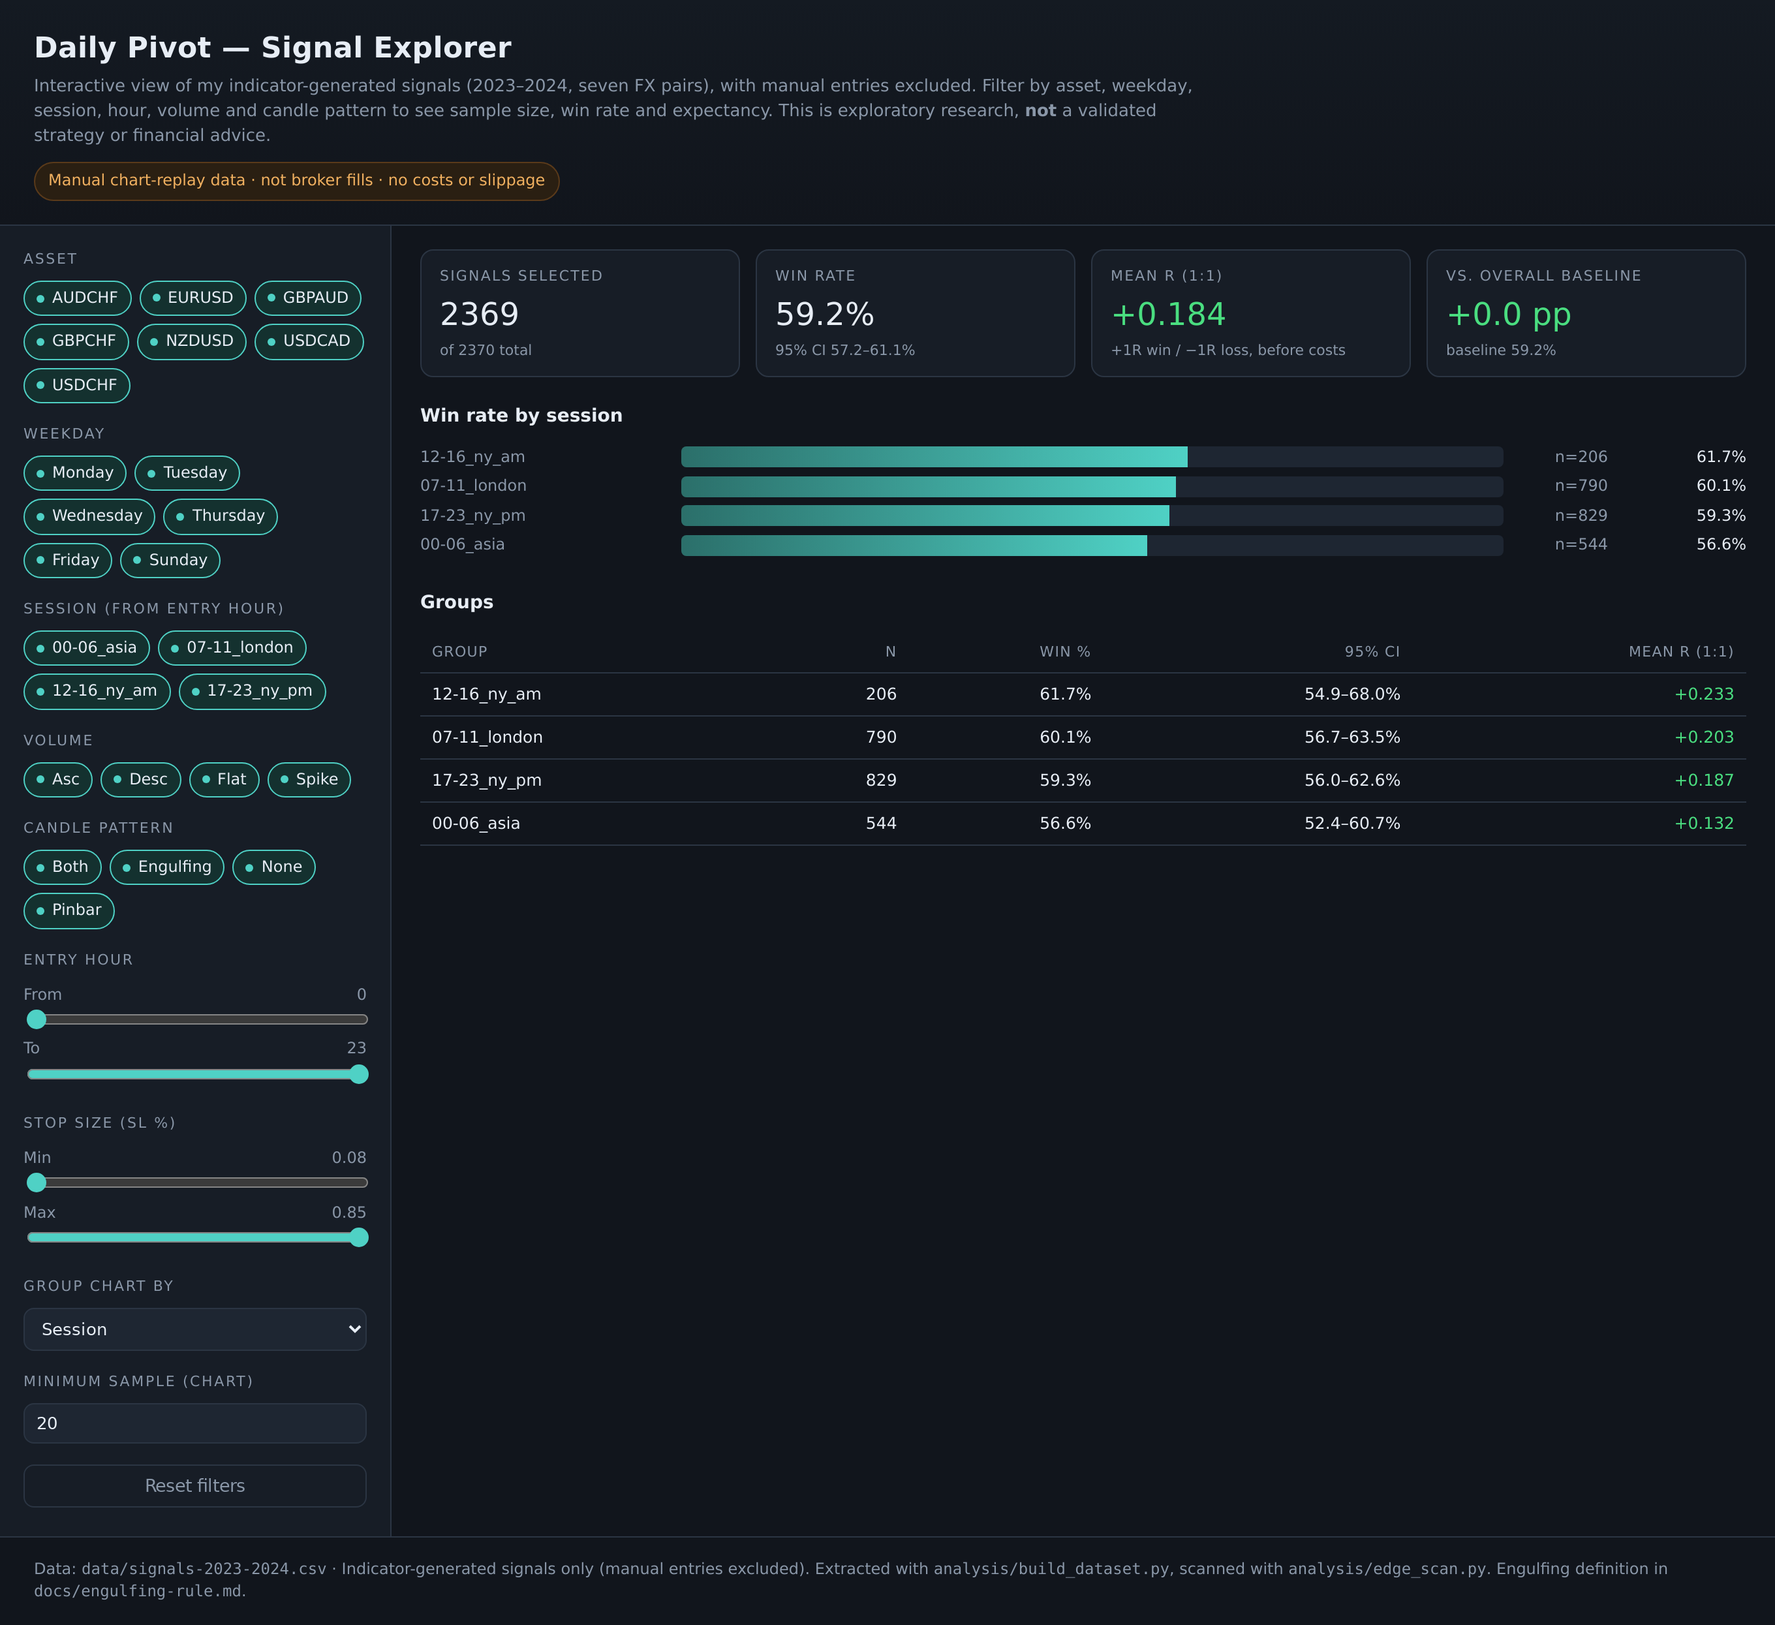
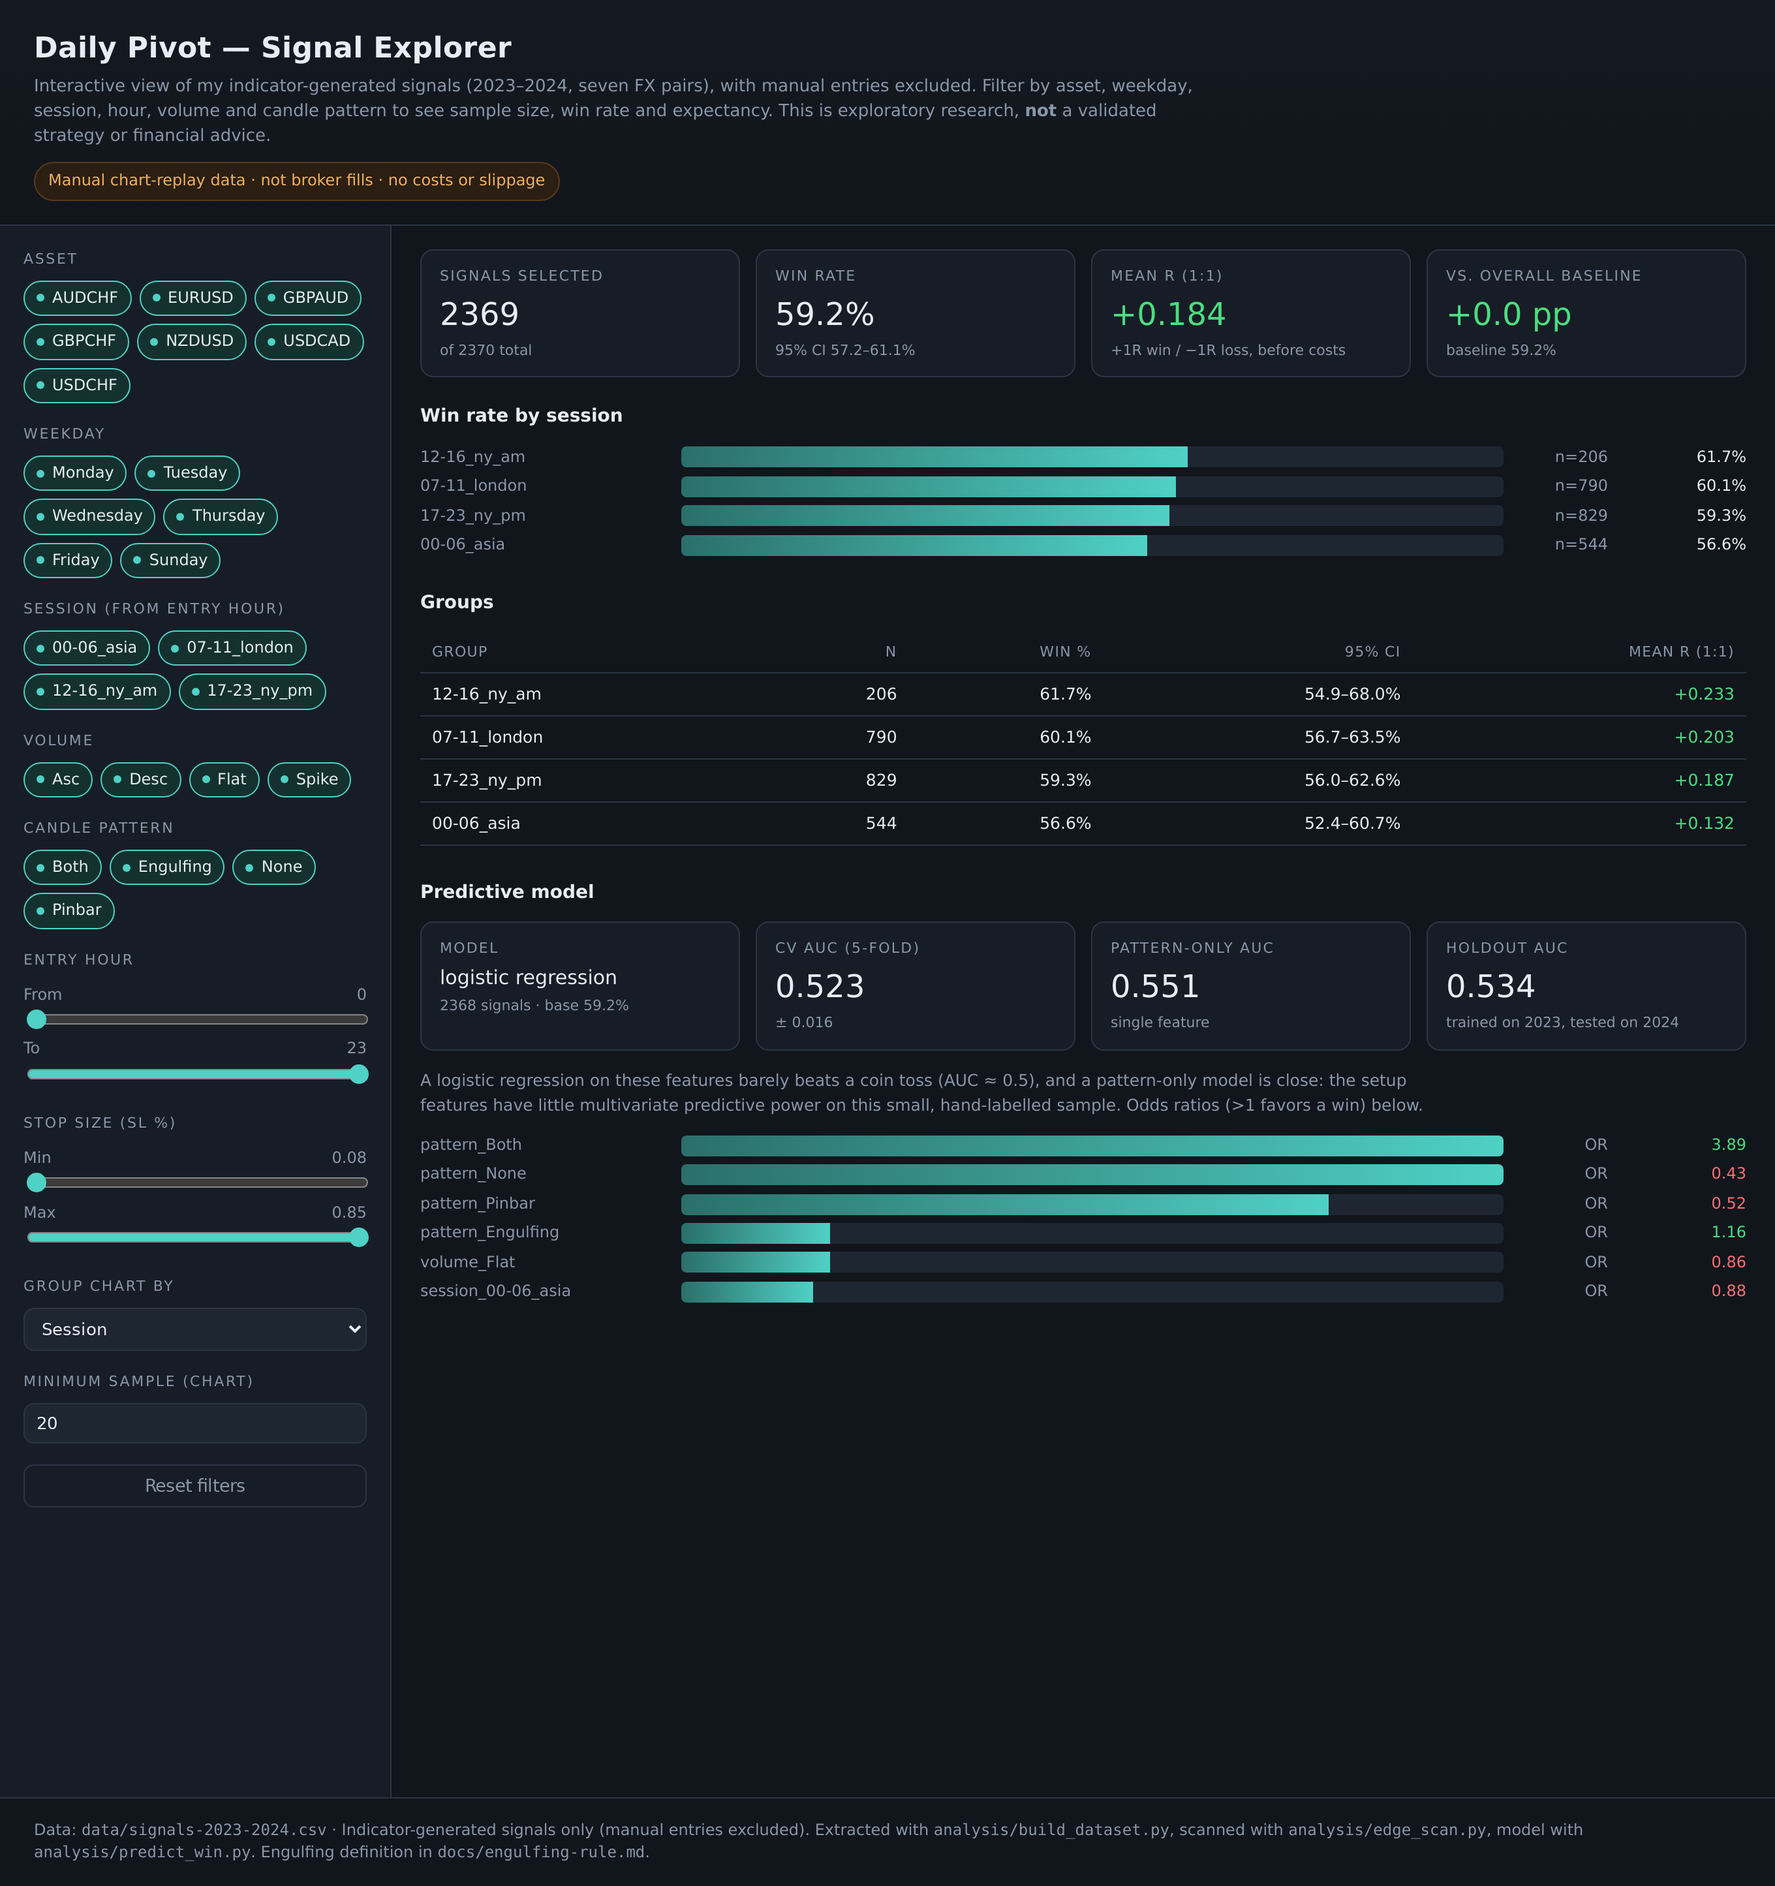
Add exploratory logistic regression model and dashboard panel

diff --git a/dashboard/index.html b/dashboard/index.html
@@ -167,13 +167,18 @@
       <h2>Groups</h2>
       <div id="table-wrap"></div>
     </section>
+    <section>
+      <h2>Predictive model</h2>
+      <div id="model"></div>
+    </section>
   </main>
 </div>
 
 <footer>
   Data: <code>data/signals-2023-2024.csv</code> · Indicator-generated signals only (manual entries
   excluded). Extracted with <code>analysis/build_dataset.py</code>, scanned with
-  <code>analysis/edge_scan.py</code>. Engulfing definition in <code>docs/engulfing-rule.md</code>.
+  <code>analysis/edge_scan.py</code>, model with <code>analysis/predict_win.py</code>. Engulfing
+  definition in <code>docs/engulfing-rule.md</code>.
 </footer>
 
 <script>
@@ -337,6 +342,39 @@ function render() {
   renderTable(groups);
 }
 
+function renderModel(m) {
+  const feats = m.top_features.slice(0, 6).map((f) => {
+    const cls = f.odds_ratio >= 1 ? "pos" : "neg";
+    const width = Math.min(100, Math.abs(Math.log(f.odds_ratio)) * 120);
+    return `<div class="chartrow"><div class="name">${f.feature}</div>
+      <div class="bar"><div class="fill" style="width:${width}%"></div></div>
+      <div class="n">OR</div><div class="val ${cls}">${f.odds_ratio.toFixed(2)}</div></div>`;
+  }).join("");
+  document.getElementById("model").innerHTML = `
+    <div class="cards" style="margin-bottom:14px">
+      <div class="card"><div class="label">Model</div><div class="value" style="font-size:15px">${m.model}</div><div class="hint">${m.n} signals · base ${(m.base_rate * 100).toFixed(1)}%</div></div>
+      <div class="card"><div class="label">CV AUC (5-fold)</div><div class="value">${m.cv_auc_mean.toFixed(3)}</div><div class="hint">± ${m.cv_auc_std.toFixed(3)}</div></div>
+      <div class="card"><div class="label">Pattern-only AUC</div><div class="value">${m.pattern_only_cv_auc_mean.toFixed(3)}</div><div class="hint">single feature</div></div>
+      <div class="card"><div class="label">Holdout AUC</div><div class="value">${m.holdout_auc.toFixed(3)}</div><div class="hint">${m.holdout}</div></div>
+    </div>
+    <p class="muted" style="font-size:12.5px;max-width:780px;line-height:1.5">
+      A logistic regression on these features barely beats a coin toss (AUC ≈ 0.5), and a
+      pattern-only model is close: the setup features have little multivariate predictive
+      power on this small, hand-labelled sample. Odds ratios (&gt;1 favors a win) below.
+    </p>
+    ${feats}`;
+}
+
+async function loadModel() {
+  try {
+    const metrics = await fetch("../data/model_metrics.json").then((r) => r.json());
+    renderModel(metrics);
+  } catch (err) {
+    document.getElementById("model").innerHTML =
+      '<div class="empty">Model metrics unavailable.</div>';
+  }
+}
+
 function reset() {
   ["f-asset", "f-weekday", "f-session", "f-volume", "f-pattern"].forEach((id) => {
     document.querySelectorAll("#" + id + " .chip").forEach((c) => c.classList.add("on"));
@@ -406,6 +444,7 @@ async function init() {
   document.getElementById("reset").addEventListener("click", reset);
 
   render();
+  loadModel();
 }
 
 init().catch((err) => {

diff --git a/analysis/predict_win.py b/analysis/predict_win.py
@@ -1,0 +1,177 @@
+"""Fit a small, honest predictive model on the published signal sample.
+
+A logistic regression that estimates P(win) from the setup features, evaluated
+with stratified 5-fold cross-validation and a chronological holdout (train 2023,
+test 2024). This is illustrative: the sample is small, hand-labelled and
+non-random, so read the metrics as exploratory, not as a trading edge.
+
+    python analysis/predict_win.py
+
+Outputs: data/model_metrics.json and analysis/model_report.md
+"""
+
+from __future__ import annotations
+
+import json
+from datetime import date
+from pathlib import Path
+
+import numpy as np
+import pandas as pd
+from sklearn.compose import ColumnTransformer
+from sklearn.linear_model import LogisticRegression
+from sklearn.metrics import accuracy_score, roc_auc_score
+from sklearn.model_selection import StratifiedKFold, cross_val_score
+from sklearn.pipeline import Pipeline
+from sklearn.preprocessing import OneHotEncoder, StandardScaler
+
+HERE = Path(__file__).resolve().parent
+DATA = HERE.parents[0] / "data" / "signals-2023-2024.csv"
+OUT_JSON = HERE.parents[0] / "data" / "model_metrics.json"
+OUT_REPORT = HERE / "model_report.md"
+
+CATEGORICAL = ["asset", "weekday", "session", "volume", "pattern"]
+NUMERIC = ["sl_pct"]
+FEATURES = CATEGORICAL + NUMERIC
+
+
+def session_of(hour: int) -> str:
+    if 0 <= hour <= 6:
+        return "00-06_asia"
+    if 7 <= hour <= 11:
+        return "07-11_london"
+    if 12 <= hour <= 16:
+        return "12-16_ny_am"
+    return "17-23_ny_pm"
+
+
+def load() -> pd.DataFrame:
+    frame = pd.read_csv(DATA, keep_default_na=False)
+    frame["sl_pct"] = pd.to_numeric(frame["sl_pct"], errors="coerce")
+    frame["hour"] = frame["hour"].astype(int)
+    frame["session"] = frame["hour"].map(session_of)
+    frame["year"] = frame["date"].str.slice(0, 4)
+    frame = frame[(frame["weekday"].str.strip() != "") & frame["sl_pct"].notna()]
+    frame["win"] = (frame["result"] == "W").astype(int)
+    return frame
+
+
+def make_pipeline() -> Pipeline:
+    pre = ColumnTransformer(
+        [
+            ("cat", OneHotEncoder(handle_unknown="ignore"), CATEGORICAL),
+            ("num", StandardScaler(), NUMERIC),
+        ]
+    )
+    return Pipeline([("pre", pre), ("clf", LogisticRegression(max_iter=1000))])
+
+
+def main() -> None:
+    frame = load()
+    X, y = frame[FEATURES], frame["win"]
+    base_rate = float(y.mean())
+    baseline_accuracy = max(base_rate, 1 - base_rate)
+
+    cv = StratifiedKFold(n_splits=5, shuffle=True, random_state=0)
+    auc_scores = cross_val_score(make_pipeline(), X, y, cv=cv, scoring="roc_auc")
+    acc_scores = cross_val_score(make_pipeline(), X, y, cv=cv, scoring="accuracy")
+
+    pattern_only = Pipeline(
+        [
+            ("enc", OneHotEncoder(handle_unknown="ignore")),
+            ("clf", LogisticRegression(max_iter=1000)),
+        ]
+    )
+    pattern_auc = cross_val_score(pattern_only, frame[["pattern"]], y, cv=cv, scoring="roc_auc")
+
+    train = frame[frame["year"] == "2023"]
+    test = frame[frame["year"] == "2024"]
+    holdout = make_pipeline().fit(train[FEATURES], train["win"])
+    proba = holdout.predict_proba(test[FEATURES])[:, 1]
+    holdout_auc = float(roc_auc_score(test["win"], proba))
+    holdout_accuracy = float(accuracy_score(test["win"], (proba >= 0.5).astype(int)))
+    holdout_baseline = float(max(test["win"].mean(), 1 - test["win"].mean()))
+
+    full = make_pipeline().fit(X, y)
+    encoder = full.named_steps["pre"].named_transformers_["cat"]
+    names = encoder.get_feature_names_out(CATEGORICAL).tolist() + NUMERIC
+    coefs = full.named_steps["clf"].coef_[0]
+    odds = np.exp(coefs)
+    order = np.argsort(-np.abs(coefs))
+    top = [
+        {
+            "feature": names[i],
+            "odds_ratio": round(float(odds[i]), 3),
+            "coef": round(float(coefs[i]), 3),
+        }
+        for i in order[:8]
+    ]
+
+    metrics = {
+        "generated_at": date.today().isoformat(),
+        "model": "logistic regression",
+        "n": int(len(frame)),
+        "base_rate": round(base_rate, 4),
+        "baseline_accuracy": round(baseline_accuracy, 4),
+        "cv_folds": 5,
+        "cv_auc_mean": round(float(auc_scores.mean()), 4),
+        "cv_auc_std": round(float(auc_scores.std()), 4),
+        "cv_accuracy_mean": round(float(acc_scores.mean()), 4),
+        "pattern_only_cv_auc_mean": round(float(pattern_auc.mean()), 4),
+        "holdout": "trained on 2023, tested on 2024",
+        "holdout_auc": round(holdout_auc, 4),
+        "holdout_accuracy": round(holdout_accuracy, 4),
+        "holdout_baseline_accuracy": round(holdout_baseline, 4),
+        "features": FEATURES,
+        "top_features": top,
+    }
+    OUT_JSON.write_text(json.dumps(metrics, indent=2) + "\n", encoding="utf-8")
+
+    lines = [
+        "# Predictive model — exploratory logistic regression",
+        "",
+        "I fit a logistic regression that estimates the probability that a signal is",
+        "a winner from the setup features. It is **illustrative**: the sample is small,",
+        "hand-labelled and non-random, so the metrics are exploratory, not a trading edge.",
+        "",
+        f"- Records: {metrics['n']} (2023–2024, indicator signals only)",
+        f"- Base win rate: {metrics['base_rate'] * 100:.2f}%",
+        f"- Baseline accuracy (majority class): {metrics['baseline_accuracy'] * 100:.2f}%",
+        f"- 5-fold CV AUC: {metrics['cv_auc_mean']:.3f} (± {metrics['cv_auc_std']:.3f})",
+        f"- 5-fold CV accuracy: {metrics['cv_accuracy_mean'] * 100:.2f}%",
+        f"- For comparison, a model using only the candle pattern: "
+        f"CV AUC {metrics['pattern_only_cv_auc_mean']:.3f}",
+        f"- Chronological holdout ({metrics['holdout']}): "
+        f"AUC {metrics['holdout_auc']:.3f}, accuracy {metrics['holdout_accuracy'] * 100:.2f}% "
+        f"(baseline {metrics['holdout_baseline_accuracy'] * 100:.2f}%)",
+        "",
+        "## Largest coefficients (odds ratios)",
+        "",
+        "| Feature | Odds ratio |",
+        "| --- | ---: |",
+    ]
+    for item in top:
+        lines.append(f"| {item['feature']} | {item['odds_ratio']:.3f} |")
+    lines += [
+        "",
+        "## Caveats",
+        "",
+        "- Manual chart-replay labels, not broker fills; no costs or slippage.",
+        "- Small, non-random sample; hand-recorded features.",
+        "- The candle pattern is the strongest driver; its tags are subjective and the",
+        "  deterministic rule is a proposal (`docs/engulfing-rule.md`).",
+        "- Adding every feature barely beats the majority-class baseline, and a pattern-only",
+        "  model is close: the setup features have little multivariate predictive power on",
+        "  this sample. Reported as-is.",
+        "- AUC near 0.5 would mean the model adds little over a coin toss; that is the",
+        "  honest result here.",
+        "",
+    ]
+    OUT_REPORT.write_text("\n".join(lines), encoding="utf-8")
+    print(f"wrote {OUT_JSON}")
+    print(f"wrote {OUT_REPORT}")
+    print(f"CV AUC {metrics['cv_auc_mean']:.3f} | holdout AUC {metrics['holdout_auc']:.3f}")
+
+
+if __name__ == "__main__":
+    main()

diff --git a/analysis/README.md b/analysis/README.md
@@ -1,9 +1,10 @@
 # Analysis
 
-Two small scripts reproduce the clean dataset and the exploratory scan behind the
-dashboard. The statistical workflow here (pandas, inference, hypothesis tests,
-FDR) is the one I've been learning in the Tecnicatura en Gestión y Análisis de
-Datos (FCE, UBA); see the repository README for the course context.
+Three small scripts reproduce the clean dataset, the exploratory scan and the
+predictive model behind the dashboard. The statistical workflow here (pandas,
+inference, hypothesis tests, FDR, logistic regression) is the one I've been
+learning in the Tecnicatura en Gestión y Análisis de Datos (FCE, UBA); see the
+repository README for the course context.
 
 ## What each script does
 
@@ -14,15 +15,19 @@ Datos (FCE, UBA); see the repository README for the course context.
   flags.
 - `edge_scan.py` — runs on the public CSV and reports win-rate subgroups with
   false-positive control. It writes `public_edge_report.md`.
+- `predict_win.py` — fits a logistic regression for P(win), with cross-validation
+  and a chronological holdout. It writes `data/model_metrics.json` (used by the
+  dashboard) and `model_report.md`.
 
 ## Run
 
 ```bash
-python -m pip install pandas scipy statsmodels
+python -m pip install pandas scipy statsmodels scikit-learn
 
 # Point at the folder that holds the private workbooks:
 TRADING_SOURCE_DIR=/path/to/workbooks python analysis/build_dataset.py
 python analysis/edge_scan.py
+python analysis/predict_win.py
 ```
 
 The workbooks are not distributed with this repository.
@@ -43,6 +48,18 @@ For every subgroup cell the scan reports:
 
 Dimensions: `asset`, `weekday`, `session` (derived from the entry hour),
 `volume`, `pattern`, a stop-size quartile, plus a few pairs.
+
+## Predictive model
+
+`predict_win.py` fits a logistic regression for P(win) from one-hot encoded
+categorical features (asset, weekday, session, volume, pattern) plus the
+standardized stop size. It reports 5-fold stratified cross-validation AUC and
+accuracy, a chronological holdout (train 2023, test 2024), and the largest odds
+ratios. A single-feature (pattern-only) model is included for comparison.
+
+Result: the model barely beats a coin toss (CV AUC ≈ 0.52; pattern-only ≈ 0.55;
+holdout ≈ 0.53), so the features do not form a reliable predictor on this small,
+hand-labelled sample. I report it as-is instead of tuning it to look better.
 
 ## Important limitation
 

diff --git a/analysis/model_report.md b/analysis/model_report.md
@@ -1,0 +1,38 @@
+# Predictive model — exploratory logistic regression
+
+I fit a logistic regression that estimates the probability that a signal is
+a winner from the setup features. It is **illustrative**: the sample is small,
+hand-labelled and non-random, so the metrics are exploratory, not a trading edge.
+
+- Records: 2368 (2023–2024, indicator signals only)
+- Base win rate: 59.16%
+- Baseline accuracy (majority class): 59.16%
+- 5-fold CV AUC: 0.523 (± 0.016)
+- 5-fold CV accuracy: 58.11%
+- For comparison, a model using only the candle pattern: CV AUC 0.551
+- Chronological holdout (trained on 2023, tested on 2024): AUC 0.534, accuracy 58.20% (baseline 58.37%)
+
+## Largest coefficients (odds ratios)
+
+| Feature | Odds ratio |
+| --- | ---: |
+| pattern_Both | 3.891 |
+| pattern_None | 0.426 |
+| pattern_Pinbar | 0.519 |
+| pattern_Engulfing | 1.163 |
+| volume_Flat | 0.860 |
+| session_00-06_asia | 0.875 |
+| asset_USDCHF | 1.135 |
+| asset_EURUSD | 0.888 |
+
+## Caveats
+
+- Manual chart-replay labels, not broker fills; no costs or slippage.
+- Small, non-random sample; hand-recorded features.
+- The candle pattern is the strongest driver; its tags are subjective and the
+  deterministic rule is a proposal (`docs/engulfing-rule.md`).
+- Adding every feature barely beats the majority-class baseline, and a pattern-only
+  model is close: the setup features have little multivariate predictive power on
+  this sample. Reported as-is.
+- AUC near 0.5 would mean the model adds little over a coin toss; that is the
+  honest result here.

diff --git a/README.md b/README.md
@@ -138,6 +138,23 @@ My own read after watching the indicator over these years:
 
 These are my observations from replay, not measured conclusions.
 
+## Predictive model
+
+I also fit a logistic regression that estimates P(win) from the setup features
+(asset, weekday, session, volume, candle pattern, stop size), with 5-fold
+cross-validation and a chronological holdout (train on 2023, test on 2024):
+
+- 5-fold CV AUC ≈ **0.52**; a model using only the candle pattern ≈ **0.55**;
+  the 2024 holdout AUC ≈ **0.53**.
+- That is barely better than a coin toss, and the multivariate model does not beat
+  the pattern-only one. In plain terms, the setup features have little predictive
+  power once combined, on this small, hand-labelled sample.
+
+I report it as-is: the point was to test the features honestly, and the honest
+answer is that they do not form a reliable predictive model here. See
+[`analysis/model_report.md`](analysis/model_report.md) and the model panel in the
+[dashboard](dashboard/).
+
 ## Limitations
 
 - The outcomes are manual chart-replay labels, not live execution.
